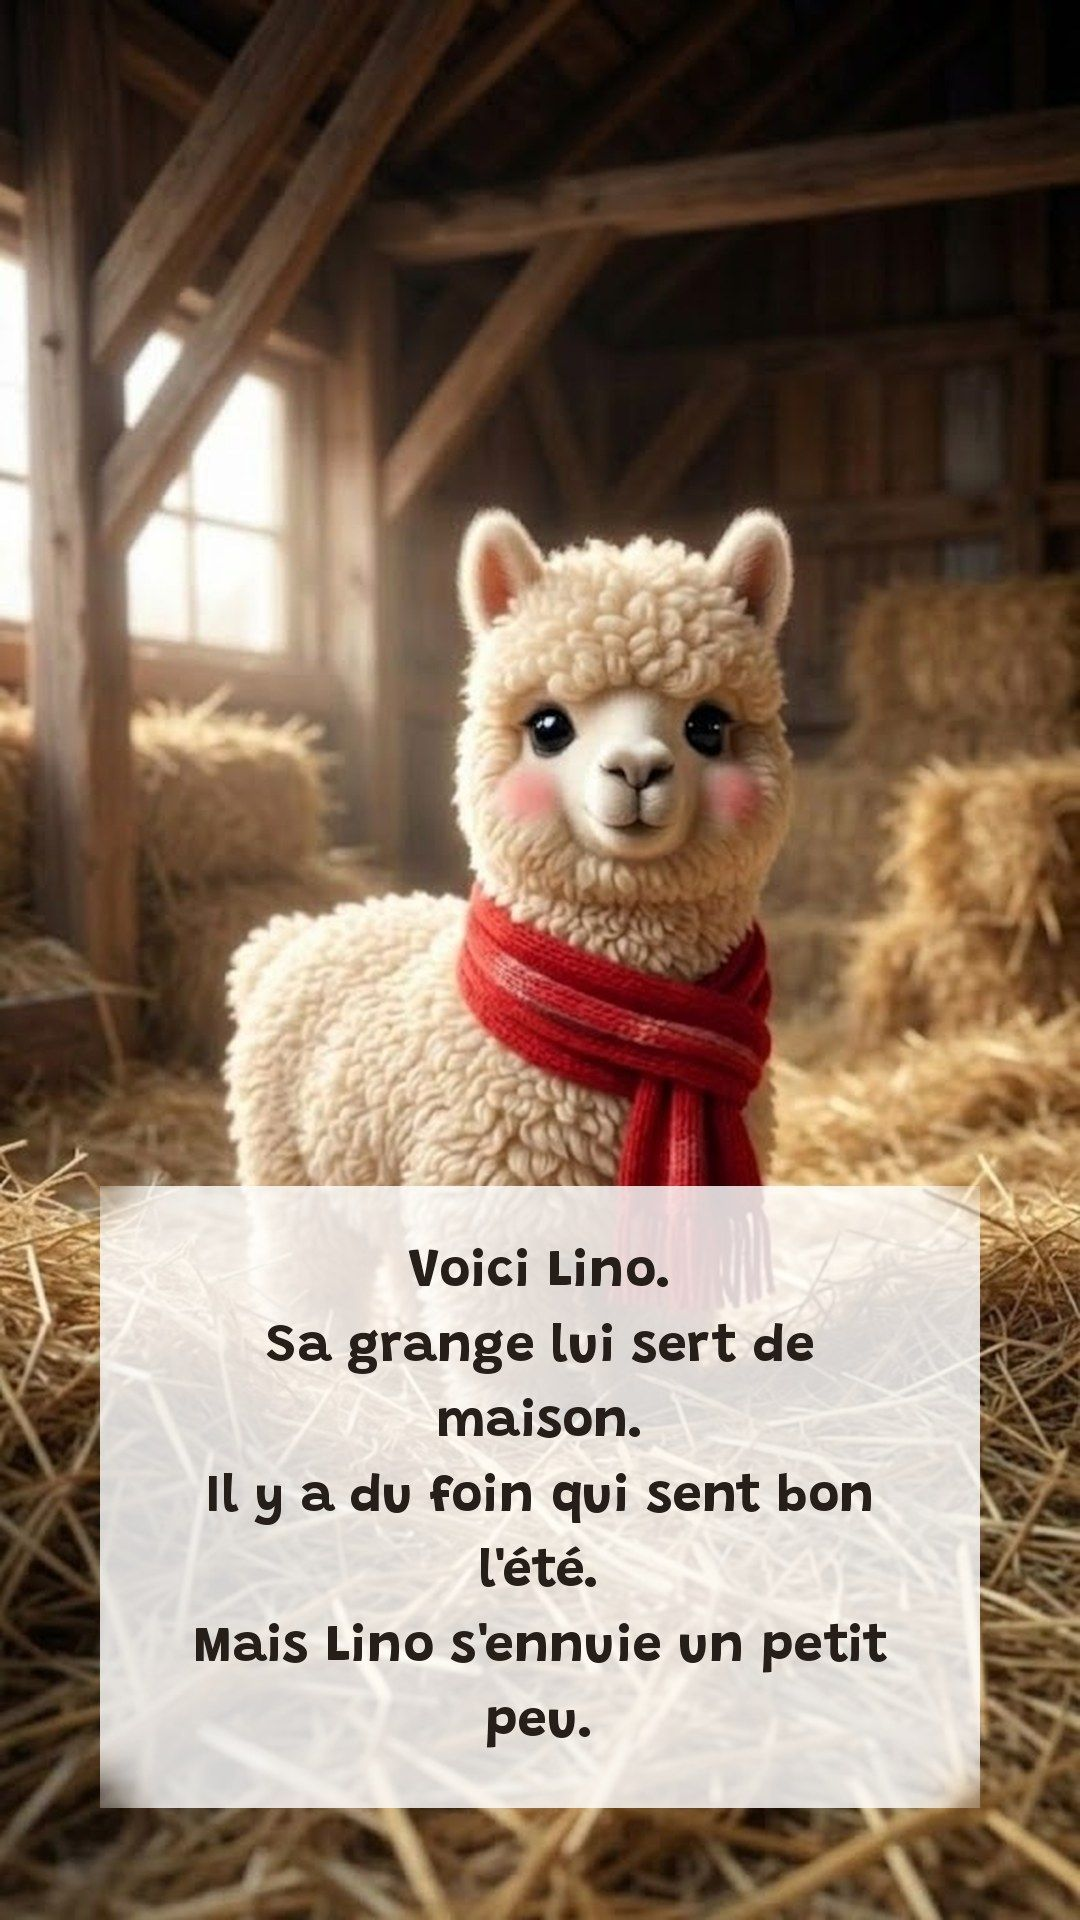
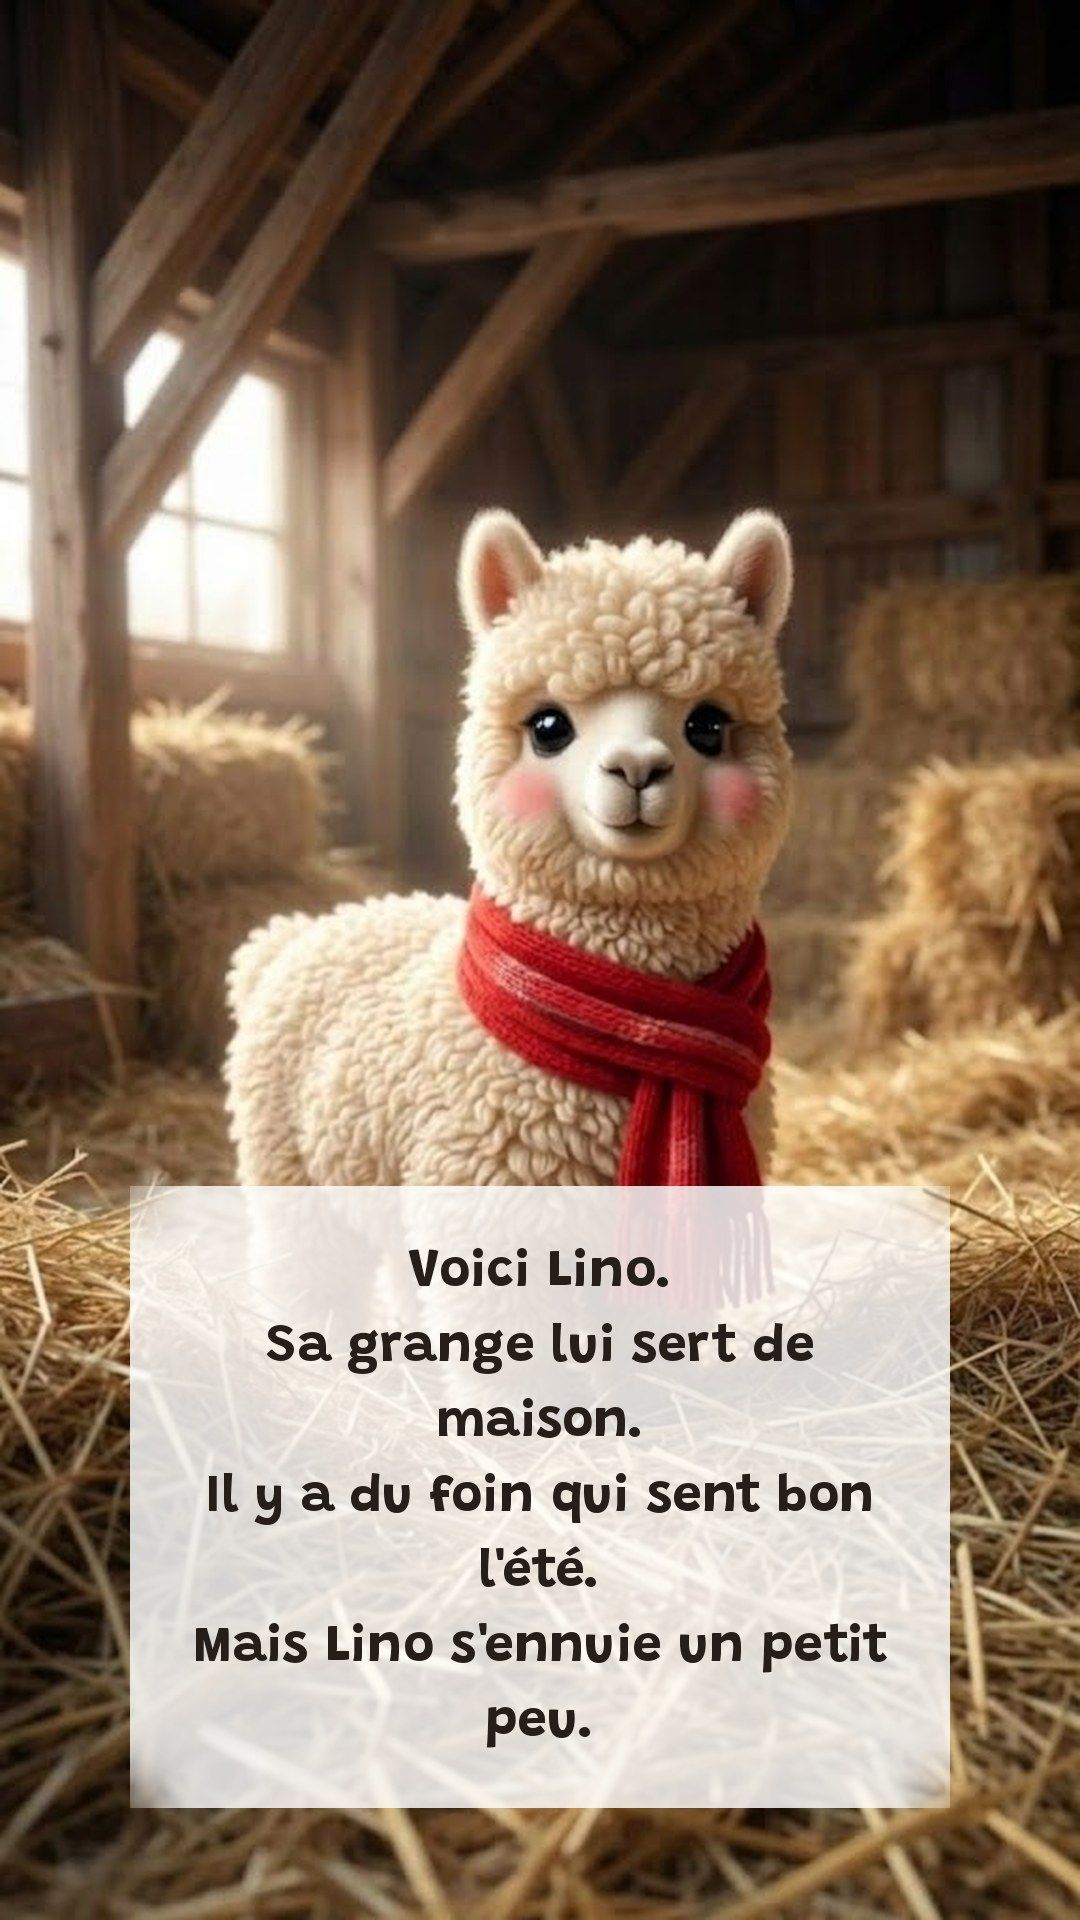
telephone : fondu enchaine (plus d ecran noir au tourne), texte a l abri du rognage

Changed region(s): [[0.825, 0.5938, 0.9167, 0.9688], [0.0917, 0.5938, 0.1528, 0.9688]]

diff --git a/index.html b/index.html
@@ -17,15 +17,17 @@
   /* la hauteur utile reelle sur telephone : barres du navigateur comprises */
   #scene { position: fixed; inset: 0; height: 100dvh; background: var(--nuit); }
 
-  /* DEUX couches : pendant le balayage, la nouvelle page glisse par-dessus
-     l'ancienne. Chaque couche reste plein ecran. */
-  .couche {
-    position: absolute; inset: 0;
-    background-size: cover; background-position: center;
-    background-repeat: no-repeat;
-    will-change: transform, opacity;
+  /* DEUX IMAGES superposees, plein ecran. La nouvelle se FOND par-dessus l'ancienne,
+     qui reste visible jusqu'au dernier moment : aucune trouee, donc aucun ecran noir
+     pendant que la page se charge. (Avant : la page glissait avant d'etre prete, et
+     le fond bleu nuit apparaissait a travers la trouee — l'auteur le voyait comme un
+     ecran noir a chaque tourne de page.) */
+  .page {
+    position: absolute; inset: 0; width: 100%; height: 100%;
+    object-fit: cover; display: block;
+    opacity: 0; transition: opacity .32s ease;
   }
-  .couche img { width: 100%; height: 100%; object-fit: cover; display: block; }
+  .page.visible { opacity: 1; }
 
   #barre {
     position: fixed; left: 0; right: 0; bottom: 0;
@@ -58,30 +60,30 @@
 <body>
 <div id="chargement" class="">Ouverture…</div>
 <div id="scene">
-  <div class="couche" id="dessous"></div>
-  <div class="couche" id="dessus"></div>
+  <img class="page" id="pA" alt="">
+  <img class="page" id="pB" alt="">
 </div>
 <div id="barre"><span>Lino le lama</span><span id="compteur">1 / 26</span></div>
 <div id="indice">Balayez pour tourner la page</div>
 
 <script>
-const PAGES = ["images/page-01.jpg?v=febf9710","images/page-02.jpg?v=8993b998","images/page-03.jpg?v=76b3b8fc","images/page-04.jpg?v=ba33dc18","images/page-05.jpg?v=3be2766c","images/page-06.jpg?v=76748fcb","images/page-07.jpg?v=01e31895","images/page-08.jpg?v=42ee1e3d","images/page-09.jpg?v=459e1728","images/page-10.jpg?v=52ee88b9","images/page-11.jpg?v=d9258666","images/page-12.jpg?v=c7096f62","images/page-13.jpg?v=ced47d15","images/page-14.jpg?v=89c8e7e9","images/page-15.jpg?v=18478093","images/page-16.jpg?v=ced8293d","images/page-17.jpg?v=8fffe4b9","images/page-18.jpg?v=ae5bc187","images/page-19.jpg?v=6b198b8e","images/page-20.jpg?v=f93be625","images/page-21.jpg?v=e7793905","images/page-22.jpg?v=59ed639b","images/page-23.jpg?v=115cbeb1","images/page-24.jpg?v=ef28b389","images/page-25.jpg?v=e42b39af","images/page-26.jpg?v=ed6126c6"];
+const PAGES = ["images/page-01.jpg?v=a8a9aca3","images/page-02.jpg?v=8993b998","images/page-03.jpg?v=891ff659","images/page-04.jpg?v=c244222b","images/page-05.jpg?v=ba7b0b1e","images/page-06.jpg?v=8bd2d4be","images/page-07.jpg?v=74441ef0","images/page-08.jpg?v=08f5a83b","images/page-09.jpg?v=0be33d53","images/page-10.jpg?v=4dbeee8a","images/page-11.jpg?v=21fbfb72","images/page-12.jpg?v=23f1d230","images/page-13.jpg?v=90eced7e","images/page-14.jpg?v=fcd89d40","images/page-15.jpg?v=345d2f5a","images/page-16.jpg?v=cda53917","images/page-17.jpg?v=569580b6","images/page-18.jpg?v=814b719f","images/page-19.jpg?v=6501db41","images/page-20.jpg?v=daff53fb","images/page-21.jpg?v=6cbb6e62","images/page-22.jpg?v=f946f8de","images/page-23.jpg?v=39ba42d1","images/page-24.jpg?v=58d639eb","images/page-25.jpg?v=ef23e78c","images/page-26.jpg?v=ed6126c6"];
 const NUIT = '#050a16';
 const scene = document.getElementById('scene');
-const dessous = document.getElementById('dessous');
-const dessus = document.getElementById('dessus');
+const pA = document.getElementById('pA');
+const pB = document.getElementById('pB');
 const compteur = document.getElementById('compteur');
 const barre = document.getElementById('barre');
 const indice = document.getElementById('indice');
 const chargement = document.getElementById('chargement');
 
-let i = 0;            // page courante
+let i = -1;              // page courante (-1 : rien d'affiche encore)
+let devant = pA;         // l'image visible
+let derriere = pB;       // l'image en reserve
 let enMouvement = false;
-let chargees = {};    // index -> true quand l'image est prete
+let chargees = {};       // index -> true quand l'image est prete
 
-function poser(el, k) { el.style.backgroundImage = 'url("' + PAGES[k] + '")'; }
-
-// prechargement : la page suivante et la precedente, sans bloquer l'affichage
+// prechargement : les pages voisines, sans bloquer l'affichage
 function precharger(k) {
   [k + 1, k + 2, k - 1].forEach(function (n) {
     if (n < 0 || n >= PAGES.length || chargees[n]) return;
@@ -91,41 +93,46 @@ function precharger(k) {
   });
 }
 
+function installer(img, k) {
+  return new Promise(function (resoudre) {
+    if (img.dataset.k === String(k) && img.complete && img.naturalWidth) {
+      resoudre(true); return;
+    }
+    img.onload = function () {
+      img.dataset.k = String(k); chargees[k] = true; resoudre(true);
+    };
+    img.onerror = function () { resoudre(false); };
+    img.src = PAGES[k];
+  });
+}
+
+// FONDU ENCHAINÉ. La nouvelle page se fond PAR-DESSUS l'ancienne, qui reste
+// visible jusqu'au dernier moment : aucune trouee pendant le chargement, donc
+// aucun ecran noir. C'est le defaut qui a ete observe sur un vrai telephone :
+// la page glissait avant d'etre prete et le fond nuit apparaissait a travers.
 function afficher(k, anime, sens) {
   if (enMouvement) return;
   k = Math.max(0, Math.min(PAGES.length - 1, k));
-  if (k === i && chargees[i]) return;
+  if (k === i) return;
   enMouvement = true;
-
-  const entrant = document.createElement('div');
-  entrant.className = 'couche';
-  poser(entrant, k);
-  const depart = sens > 0 ? 100 : -100;
-  entrant.style.transform = 'translateX(' + depart + '%)';
-  entrant.style.transition = anime ? 'transform .38s ease-out' : 'none';
-  scene.appendChild(entrant);
-
-  const im = new Image();
-  im.onload = function () {
-    chargees[k] = true;
+  const cible = derriere;
+  installer(cible, k).then(function (ok) {
+    if (!ok) { enMouvement = false; return; }
+    if (!anime) { cible.style.transition = 'none'; }
+    cible.classList.add('visible');
+    if (i >= 0) { devant.classList.remove('visible'); }
+    const tampon = devant; devant = cible; derriere = tampon;
+    i = k;
+    compteur.textContent = (i + 1) + ' / ' + PAGES.length;
     chargement.classList.add('parti');
-    requestAnimationFrame(function () {
-      entrant.style.transform = 'translateX(0)';
-      dessus.style.transform = 'translateX(' + (-depart / 3) + '%)';
-      setTimeout(function () {
-        dessous.style.backgroundImage = dessus.style.backgroundImage;
-        dessus.style.transition = 'none';
-        dessus.style.transform = 'translateX(0)';
-        entrant.remove();
-        i = k;
-        compteur.textContent = (i + 1) + ' / ' + PAGES.length;
-        enMouvement = false;
-        precharger(i);
-      }, anime ? 400 : 20);
-    });
-  };
-  im.onerror = function () { enMouvement = false; entrant.remove(); };
-  im.src = PAGES[k];
+    indice.classList.add('parti');
+    montrerBarre();
+    precharger(i);
+    setTimeout(function () {
+      cible.style.transition = '';
+      enMouvement = false;
+    }, anime ? 340 : 0);
+  });
 }
 
 function montrerBarre() {
@@ -164,19 +171,10 @@ document.addEventListener('keydown', function (e) {
 });
 
 // --- demarrage ----------------------------------------------------------
-poser(dessous, 0);
-dessus.style.backgroundImage = 'none';
-const premier = new Image();
-premier.onload = function () {
-  chargees[0] = true;
-  chargees[1] = true;
-  chargement.classList.add('parti');
-  indice.classList.add('parti');
-  montrerBarre();
-  precharger(0);
-};
-premier.onerror = function () { chargement.textContent = 'Page introuvable'; };
-premier.src = PAGES[0];
+afficher(0, false, 1);
+setTimeout(function () {
+  if (i < 0) { chargement.textContent = 'Page introuvable'; }
+}, 15000);
 setTimeout(function () { indice.classList.add('parti'); }, 4000);
 </script>
 </body>
